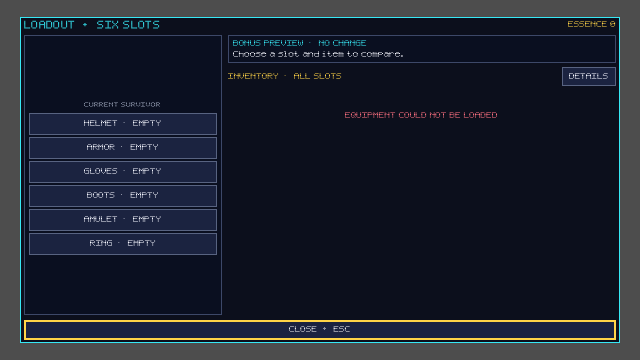
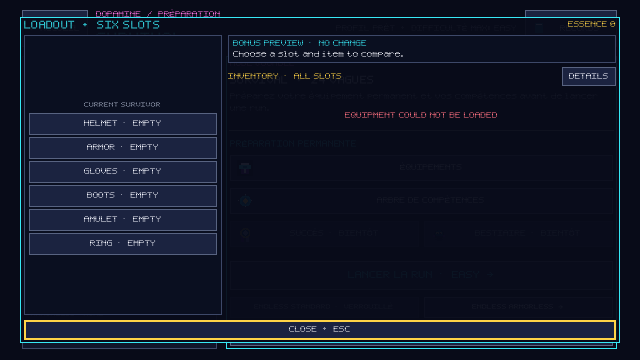
test: render equipment error states over survival hub

Changed region(s): [[0.0, 0.0, 1.0, 1.0]]

diff --git a/docs/art/evidence/2026-10-18/README.md b/docs/art/evidence/2026-10-18/README.md
@@ -19,8 +19,8 @@ Captures 640×360 générées avec Godot 4.7.2 sous Xvfb/Mesa llvmpipe. Les smok
[10 lines of base64/hex data omitted]
@@ -28,14 +28,14 @@ Captures 640×360 générées avec Godot 4.7.2 sous Xvfb/Mesa llvmpipe. Les smok
[8 lines of base64/hex data omitted]
 
 Les captures ont été régénérées après import des exports graphiques renouvelés le 2026-10-18 et inspectées. La planche catalogue, le hub et le combat ont changé de hash; les autres captures sont identiques. La capture du skill tree a ensuite été refaite avec le vrai hub Survival derrière le panneau : l’ancien gris extérieur provenait du viewport par défaut du smoke isolé, alors que le jeu l’intègre sur le fond sombre du hub. L’utilisateur a confirmé que le texte courant et les labels pixel du hub et de l’équipement sont lisibles à 640×360. Ces images valident le rendu virtualisé ciblé, pas le GPU matériel ni les contrôles physiques. La revue audio en contexte reste **[OUVERTE]** à la demande de l’utilisateur de poursuivre sans écoute.
 
-Les onze premières captures `states/*.png` ont été générées par `game/tests/ui_states_evidence_smoke.gd` sous Godot 4.7.2/Xvfb/Mesa llvmpipe. Le coffre et le résultat utilisent maintenant les instances déjà montées sous `SurvivalSession/HUD`, avec génération d’ennemis désactivée; les panneaux sont donc examinés sur le fond de run réel, sans dialogue autonome sur le gris du viewport. Les captures supplémentaires viennent des smokes `equipment_panel_visual_smoke.gd`, `survival_entry_smoke.gd`, `survival_hud_smoke.gd`, `survival_revive_smoke.gd` et `survival_run_stat_hub_smoke.gd`; elles couvrent aussi un slot sans pièce compatible, l’échec réel d’une mutation d’équipement dans le hub et la confirmation de vente. Les états de revue utilisent des données temporaires; aucune sauvegarde normale n’est écrite. Ces captures ne couvrent pas toutes les erreurs, branches de focus, tailles ni contrôles physiques.
+Les onze premières captures `states/*.png` ont été générées par `game/tests/ui_states_evidence_smoke.gd` sous Godot 4.7.2/Xvfb/Mesa llvmpipe. Le coffre et le résultat utilisent les instances déjà montées sous `SurvivalSession/HUD`, avec génération d’ennemis désactivée. Les deux états de profil indisponible sont au-dessus du vrai hub Survival avec un service isolé. `equipment_panel_visual_smoke.gd` capture aussi l’état sans pièce compatible dans le hub réel, sans toucher à la sauvegarde normale. Les autres captures viennent des smokes `survival_entry_smoke.gd`, `survival_hud_smoke.gd`, `survival_revive_smoke.gd` et `survival_run_stat_hub_smoke.gd`; elles couvrent l’échec réel d’une mutation d’équipement dans le hub et la confirmation de vente. Les états de revue utilisent des données temporaires; aucune sauvegarde normale n’est écrite. Ces captures ne couvrent pas toutes les erreurs, branches de focus, tailles ni contrôles physiques.
 
 ## Parcours du paquet Linux/X11 Release — build du 2026-10-18
 

diff --git a/docs/specs/SPEC-equipment-screen.md b/docs/specs/SPEC-equipment-screen.md
@@ -60,6 +60,7 @@ Vérifier chaque slot, sélection/filtrage, pièce déjà équipée, slot vide, 
 - **[VALIDÉ]** Le calcul de preview utilise `EquipmentGenerator.stat_value`, retire l’équipement actuellement porté dans le slot, puis ajoute le candidat une seule fois. Les smokes `equipment_stats_smoke`, `equipment_slots_smoke`, `equipment_panel_visual_smoke` et `survival_hub_smoke` passent; le filtre UI est parcouru sur les six slots. La capture 640×360 `/tmp/dopamine-equipment.png` a été inspectée; le layout s’adapte aux viewports 640×360, 1280×720 et 1920×1080.
 - **[VALIDÉ — NAVIGATION, 2026-10-18]** `equipment_panel_visual_smoke.gd` vérifie le focus initial visible sur le slot équipé et son déplacement par flèche clavier et D-pad; le smoke d’équipement passe.
 - **[VALIDÉ — ÉTATS SANS COMPATIBLE ET ÉCHEC, 2026-10-18]** Le smoke distingue l’inventaire non vide sans objet pour le slot sélectionné. Le smoke du hub ouvre les détails d’une pièce temporaire réelle, rend l’entrée persistée obsolète puis actionne son bouton ÉQUIPER; l’échec de `ProgressionService.set_equipped` garde le panneau ouvert avec feedback. Captures inspectées `states/equipment-no-compatible.png` et `states/equipment-action-failed.png`, hashes dans le README de preuves. CTest ciblé import/hub/panneau passe (3/3).
+- **[VALIDÉ — CONTEXTE DE CAPTURE, 2026-10-18]** L’état sans item compatible est maintenant capturé comme overlay du vrai hub Survival, avec un service isolé et le panneau contenant toujours ses six slots, filtre et aperçu sans changement. Import, slots, stats, hub et smoke visuel passent dans le contrôle ciblé (5/5); aucune sauvegarde normale n’est utilisée.
 - **[VALIDÉ — MODE DETAILS ET DÉFILEMENT, 2026-10-18]** `equipment_panel_visual_smoke.gd` vérifie que panneau, colonne et fenêtre de scroll restent contenus aux viewports 640×360, 1280×720 et 1920×1080, et que le scroll vertical est actif à 640×360 lorsque la liste de gestion est dense. La capture `states/equipment-details.png` montre les actions Details et le bouton CLOSE fixe; hash dans le README de preuves. Le contenu partiellement hors fenêtre est donc accessible par défilement, pas supprimé. Cette preuve ne valide pas encore la revue physique/manette.
 - **[VALIDÉ — CONFIRMATION DE VENTE NEON, 2026-10-18]** La confirmation native grise est remplacée par `sell_confirmation.tscn`, avec montant et irréversibilité, voile Neon et focus initial sur CANCEL; Échap et le bouton annulent sans vendre. Le smoke vérifie les bornes et le maintien du focus à 640×360, 1280×720 et 1920×1080; `survival_inventory_smoke.gd` confirme l’absence de mutation avant SELL puis la vente après confirmation. Capture 640×360 inspectée et hash indexé dans le README de preuves. La revue de tous les états/focus reste ouverte.
 - **[PROPOSÉ]** Les pièces, rangs et bonus d’équipement restent marqués proposés comme dans le profil/service; cette page n’élève pas leur statut de design.

diff --git a/docs/qa/TESTS.md b/docs/qa/TESTS.md
@@ -2251,3 +2251,9 @@ Note de clôture : le blocage historique du smoke `sandbox_ui_smoke.gd` décrit 
 - [x] Le smoke d’évidence passe sous Xvfb/Godot 4.7.2. CTest ciblé `godot_project_import`, coffre, layout coffre, HUD, résultat Survival et panneau résultat : **6/6**.
 - [i] Ce rendu virtualisé ne remplace pas une capture vidéo d’une run réelle ni le test matériel; les fixtures d’offres/récompenses restent des données de présentation.
 - [i] À la fermeture, le smoke signale 12 instances ObjectDB et 5 ressources encore référencées, comme le smoke HUD existant exécuté séparément; les assertions et six tests ciblés passent, mais l’origine des références n’est pas isolée par cette tranche.
+
+## Captures des erreurs UI et de l’équipement dans leur écran parent — 2026-10-18
+
+- [x] Le profil équipement illisible, le profil arbre indisponible et l’inventaire sans pièce compatible sont capturés avec le vrai hub Survival visible sous le voile Neon; le rendu gris du viewport par défaut est éliminé pour ces états.
+- [x] Les smokes injectent des services avec un chemin `user://` dédié; ils ne lisent ni n’écrivent la sauvegarde normale. Les captures 640×360 ont été régénérées, inspectées et hashées dans le README des preuves.
+- [x] `equipment_panel_visual_smoke.gd --capture-states` et `ui_states_evidence_smoke.gd` passent; CTest import/equipment slots/stats/hub/panel : **5/5**. Les erreurs restent des états de présentation isolés et les commandes physiques restent **[OUVERTES]**.
